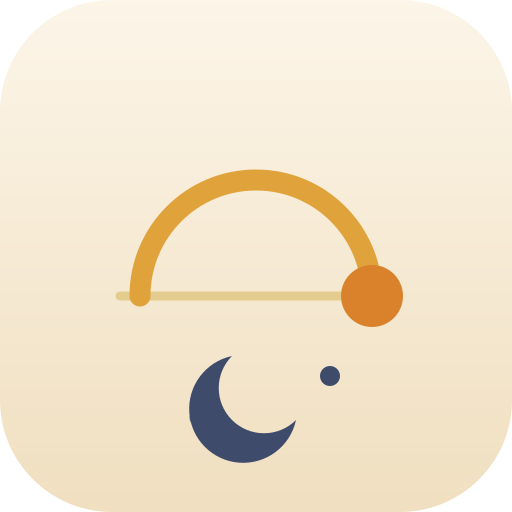
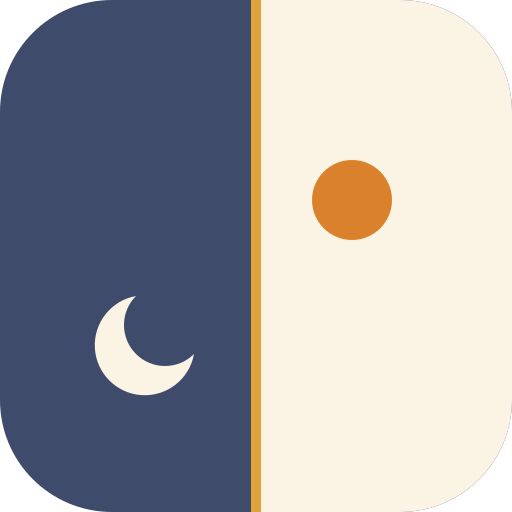
אייקון חדש - הגבול בין יום ללילה; חתימת ALUSH STUDIO במסך הפתיחה

diff --git a/index.html b/index.html
@@ -25,7 +25,7 @@
         transition: opacity .45s ease;
       }
       #splash.hide { opacity: 0; pointer-events: none; }
-      #splash .mark { width: 132px; height: 132px; }
+      #splash .mark { width: 128px; height: 128px; border-radius: 28px; display: block; }
       #splash .name {
         font-size: 2.6rem; font-weight: 700; letter-spacing: .04em;
         color: #B4741C; margin-top: 18px; line-height: 1;
@@ -37,8 +37,8 @@
       }
       #splash .sig .rule { width: 34px; height: 1px; background: #C9BCA2; }
       #splash .sig .by {
-        font-size: .62rem; letter-spacing: .34em; text-transform: uppercase;
-        color: #A2947E; font-weight: 600;
+        font-size: 11px; letter-spacing: .36em; font-weight: 500;
+        color: #8A7C66; direction: ltr;
       }
       @media (prefers-color-scheme: dark) {
         #splash { background: #12161f; }
@@ -51,18 +51,17 @@
   <body>
     <div id="splash">
       <svg class="mark" viewBox="0 0 512 512" xmlns="http://www.w3.org/2000/svg" aria-hidden="true">
-        <line x1="120" y1="296" x2="392" y2="296" stroke="#C9A227" stroke-width="9" stroke-linecap="round" opacity="0.4"/>
-        <path d="M140 296 A116 116 0 0 1 372 296" fill="none" stroke="#E0A33C" stroke-width="21" stroke-linecap="round"/>
-        <circle cx="372" cy="296" r="31" fill="#D9822B"/>
-        <path d="M232 356 a54 54 0 1 0 64 64 44 44 0 1 1-64-64z" fill="#3E4B6B"/>
-        <circle cx="330" cy="376" r="10" fill="#3E4B6B"/>
-        <circle cx="196" cy="418" r="6.5" fill="#3E4B6B" opacity="0.7"/>
+        <rect width="512" height="512" rx="112" fill="#3E4B6B"/>
+        <path d="M256 0 H400 a112 112 0 0 1 112 112 V400 a112 112 0 0 1-112 112 H256 Z" fill="#FBF3E4"/>
+        <line x1="256" y1="0" x2="256" y2="512" stroke="#E0A33C" stroke-width="10"/>
+        <circle cx="352" cy="200" r="40" fill="#D9822B"/>
+        <path d="M136 296 a50 50 0 1 0 58 58 41 41 0 1 1-58-58z" fill="#FBF3E4"/>
       </svg>
       <div class="name">רגע</div>
       <div class="tag">זמן עברי ואזרחי</div>
       <div class="sig">
         <div class="rule"></div>
-        <div class="by">Alush Tech</div>
+        <div class="by">ALUSH&nbsp;STUDIO</div>
       </div>
     </div>
     <div id="root"></div>
